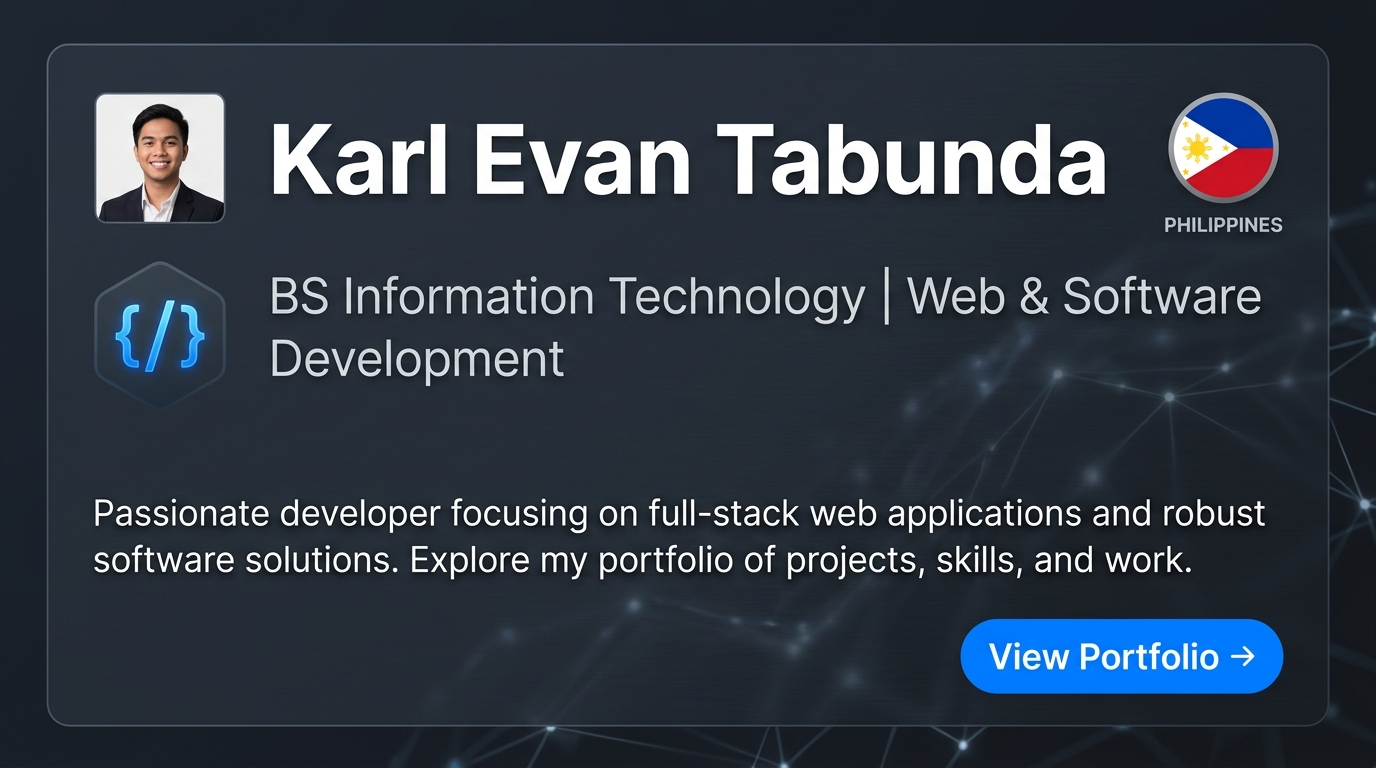
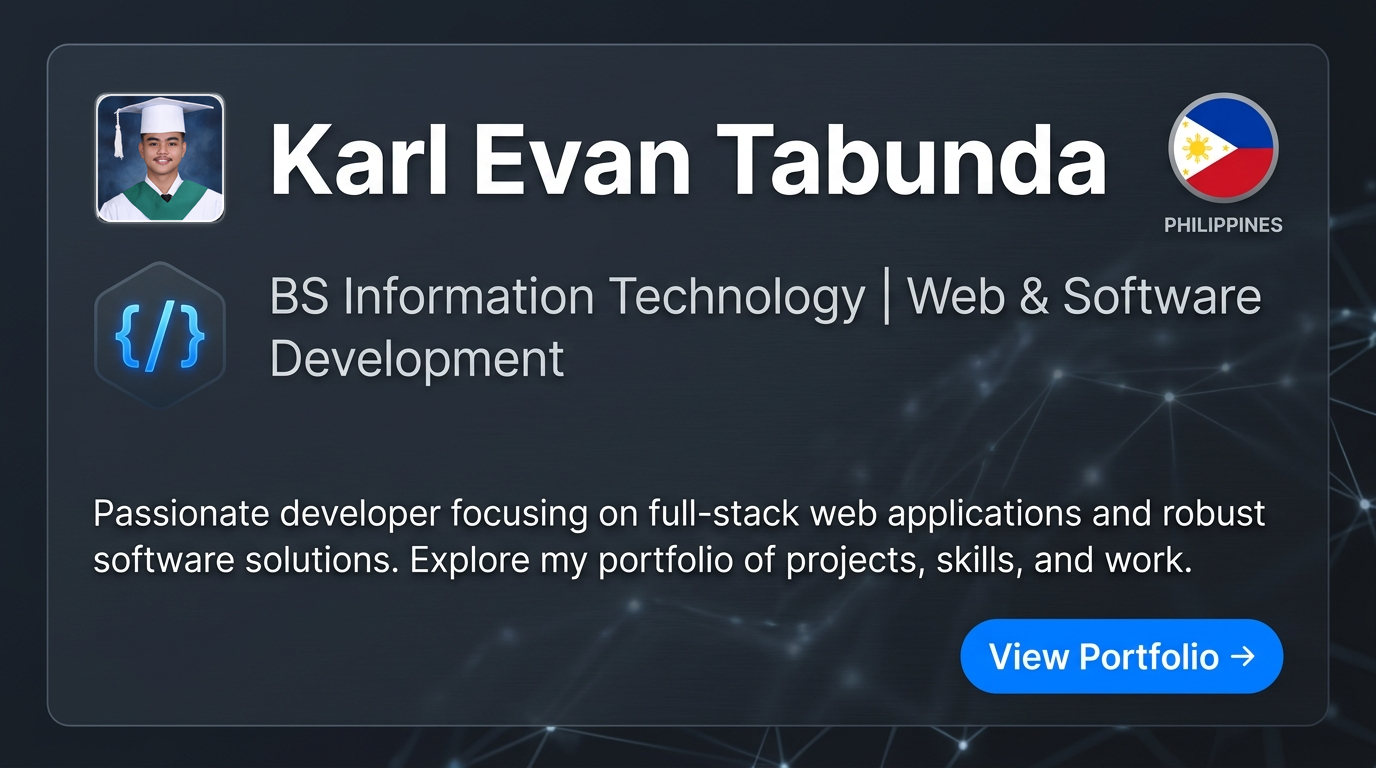
Profile adjusted

Changed region(s): [[0.0625, 0.125, 0.1875, 0.3125]]

diff --git a/index.html b/index.html
@@ -9,10 +9,10 @@
   <title>Karl Evan Tabunda — IT Student & Developer Portfolio</title>
 
   <!-- Favicon / Tab Icon (Pure Black Minimalist Monogram - Transparent Background) -->
-  <link rel="icon" type="image/svg+xml" href="assets/images/gradpic.jpg">
-  <link rel="icon" type="image/png" sizes="32x32" href="assets/images/gradpic.jpg">
-  <link rel="icon" href="assets/images/gradpic.jpg" sizes="any">
-  <link rel="apple-touch-icon" href="assets/images/gradpic.jpg">
+  <link rel="icon" type="image/svg+xml" href="assets/images/favicon.svg?v=2">
+  <link rel="icon" type="image/png" sizes="32x32" href="assets/images/favicon.png?v=2">
+  <link rel="icon" href="favicon.ico?v=2" sizes="any">
+  <link rel="apple-touch-icon" href="assets/images/favicon.png?v=2">
 
   <meta name="description"
     content="Personal developer portfolio of Karl Evan Tabunda, Information Technology student exploring software development, web applications, databases, and UI/UX through real projects.">
@@ -25,7 +25,7 @@
   <meta property="og:title" content="Karl Evan Tabunda — IT Student & Developer Portfolio">
   <meta property="og:description"
     content="Information Technology student exploring software development, web applications, databases, and UI/UX through real projects.">
-  <meta property="og:image" content="assets/images/og-preview.png">
+  <meta property="og:image" content="assets/images/og-preview.png?v=2">
   <meta property="og:locale" content="en_US">
 
   <!-- Twitter Card -->
@@ -33,7 +33,7 @@
   <meta name="twitter:title" content="Karl Evan Tabunda — IT Student & Developer Portfolio">
   <meta name="twitter:description"
     content="Information Technology student exploring software development, web applications, databases, and UI/UX through real projects.">
-  <meta name="twitter:image" content="assets/images/og-preview.png">
+  <meta name="twitter:image" content="assets/images/og-preview.png?v=2">
 
   <!-- Google Fonts: Newsreader (Editorial Serif), Inter (Clean UI Sans), Caveat (Handwritten Doodles) -->
   <link rel="preconnect" href="https://fonts.googleapis.com">
